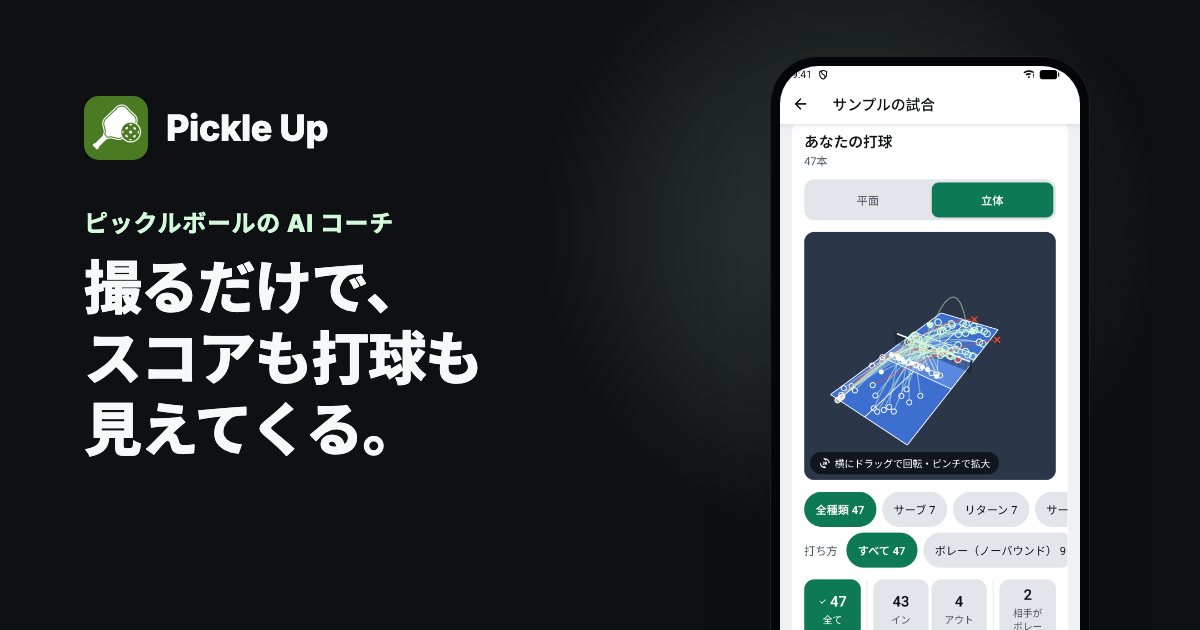
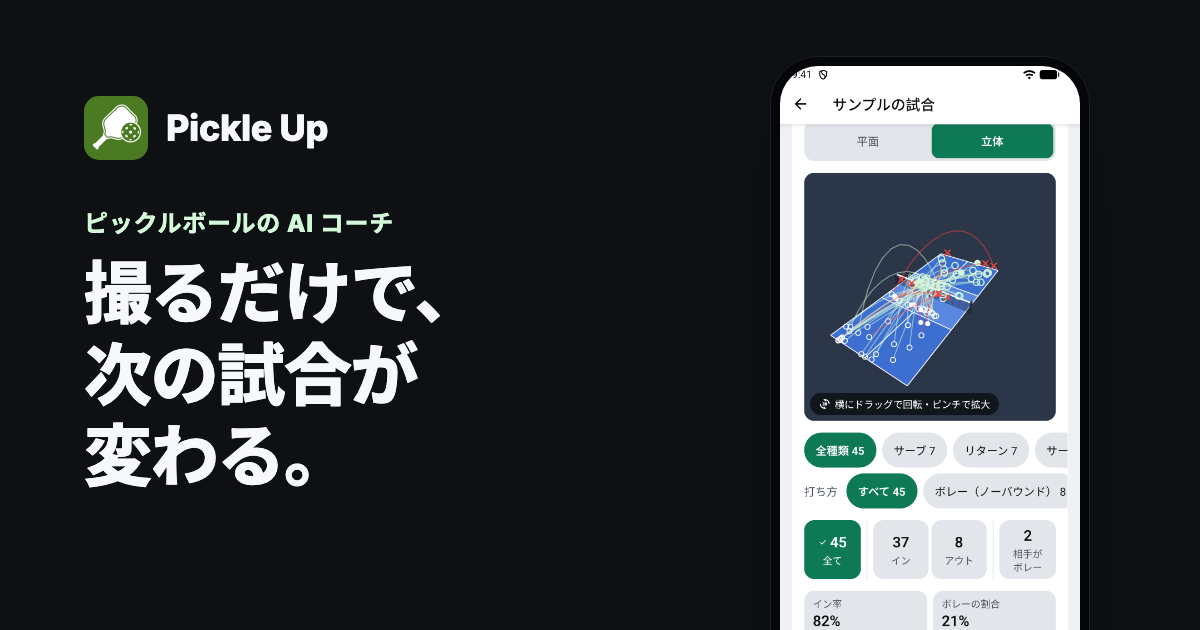
Pickle Up のページの見出しを「撮るだけで、次の試合が変わる。」（英語は "Just film it. Play better next game."）にする。ページのタイトルと共有用の画像も同じ言葉にし、画像の画面を今のサンプル（45本・+19cm）にする
Claude-Session: https://claude.ai/code/session_01RcorTwHLSLi3TqpLhpw8hm

Changed region(s): [[0.5858, 0.181, 0.8942, 1.0], [0.0617, 0.3921, 0.4008, 0.7841]]

diff --git a/ja/apps/pickle-up/index.html b/ja/apps/pickle-up/index.html
@@ -4,7 +4,7 @@
 <meta charset="UTF-8">
 <meta name="viewport" content="width=device-width, initial-scale=1.0">
 <script>try { localStorage.setItem('preferredLang', 'ja'); } catch (_) {}</script>
-<title>Pickle Up | 試合を撮って、打った球を全部振り返るピックルボールのアプリ</title>
+<title>Pickle Up | 撮るだけで、次の試合が変わるピックルボールのアプリ</title>
 <meta name="description" content="コートの後ろにスマホを置いて試合をすると、スコアを数えて読み上げ、あなたが打った球を1本ずつコートに描きます。ドロップは入っているのにボレーはネット、といった傾向が数字で分かり、AI コーチが次に練習することを教えます。">
 <meta name="theme-color" content="#0E1014">
 <link rel="icon" href="/images/apps/pickle-up/icon-64.png" sizes="64x64" type="image/png">
@@ -15,7 +15,7 @@
 <link rel="alternate" hreflang="x-default" href="/en/apps/pickle-up/">
 <meta property="og:type" content="website">
 <meta property="og:site_name" content="Pickle Up">
-<meta property="og:title" content="Pickle Up | 試合を撮って、打った球を全部振り返るピックルボールのアプリ">
+<meta property="og:title" content="Pickle Up | 撮るだけで、次の試合が変わるピックルボールのアプリ">
 <meta property="og:description" content="コートの後ろにスマホを置いて試合をすると、スコアを数えて読み上げ、あなたが打った球を1本ずつコートに描きます。ドロップは入っているのにボレーはネット、といった傾向が数字で分かり、AI コーチが次に練習することを教えます。">
 <meta property="og:url" content="https://quests.it.com/ja/apps/pickle-up/">
 <meta property="og:locale" content="ja_JP">
@@ -62,7 +62,7 @@
 <svg class="court-lines" viewBox="0 0 1200 700" preserveAspectRatio="xMidYMid slice" aria-hidden="true" focusable="false"><path d="M354 565 L682 783 M827 217 L1070 288 M354 565 L827 217 M682 783 L1070 288 M573 403 L871 541 M715 299 L985 397 M500 662 L709 466 M840 344 L941 250" fill="none" stroke="currentColor" stroke-width="2"/><path d="M633 303 L957 426" fill="none" stroke="currentColor" stroke-width="4" stroke-linecap="round"/></svg>
 <div class="wrap hero-grid">
 <div class="hero-copy">
-<h1><span class="phrase">試合を撮ると、</span><span class="phrase">打った球が</span><span class="phrase">全部見える。</span></h1>
+<h1><span class="phrase">撮るだけで、</span><span class="phrase">次の試合が</span><span class="phrase">変わる。</span></h1>
 <p class="lead">スマホをコートの後ろに置いて、いつもどおり試合をしてください。Pickle Up がスコアを数えて読み上げ、あなたが打った球を1本ずつコートに描きます。試合のあとは AI コーチが、次に何を練習すればいいかを教えます。</p>
 <div class="stores stores-hero"><span class="store"><img src="/images/apps/badges/app-store-ja.svg" alt="App Store からダウンロード" width="131" height="48"></span><span class="store"><img src="/images/apps/badges/google-play-ja.png" alt="Google Play で手に入れよう" width="161" height="48"></span></div><p class="stores-note">近日公開</p>
 </div>

diff --git a/en/apps/pickle-up/index.html b/en/apps/pickle-up/index.html
@@ -4,7 +4,7 @@
 <meta charset="UTF-8">
 <meta name="viewport" content="width=device-width, initial-scale=1.0">
 <script>try { localStorage.setItem('preferredLang', 'en'); } catch (_) {}</script>
-<title>Pickle Up | Film your pickleball games and see every shot you hit</title>
+<title>Pickle Up | Just film your pickleball games, and play better the next one</title>
 <meta name="description" content="Prop your phone behind the court and play. Pickle Up keeps and calls the score, draws each of your shots on the court, shows where they go wrong (your drops land, your volleys find the net), and its AI coach tells you what to practise.">
 <meta name="theme-color" content="#0E1014">
 <link rel="icon" href="/images/apps/pickle-up/icon-64.png" sizes="64x64" type="image/png">
@@ -15,7 +15,7 @@
 <link rel="alternate" hreflang="x-default" href="/en/apps/pickle-up/">
 <meta property="og:type" content="website">
 <meta property="og:site_name" content="Pickle Up">
-<meta property="og:title" content="Pickle Up | Film your pickleball games and see every shot you hit">
+<meta property="og:title" content="Pickle Up | Just film your pickleball games, and play better the next one">
 <meta property="og:description" content="Prop your phone behind the court and play. Pickle Up keeps and calls the score, draws each of your shots on the court, shows where they go wrong (your drops land, your volleys find the net), and its AI coach tells you what to practise.">
 <meta property="og:url" content="https://quests.it.com/en/apps/pickle-up/">
 <meta property="og:locale" content="en_US">
@@ -62,7 +62,7 @@
 <svg class="court-lines" viewBox="0 0 1200 700" preserveAspectRatio="xMidYMid slice" aria-hidden="true" focusable="false"><path d="M354 565 L682 783 M827 217 L1070 288 M354 565 L827 217 M682 783 L1070 288 M573 403 L871 541 M715 299 L985 397 M500 662 L709 466 M840 344 L941 250" fill="none" stroke="currentColor" stroke-width="2"/><path d="M633 303 L957 426" fill="none" stroke="currentColor" stroke-width="4" stroke-linecap="round"/></svg>
 <div class="wrap hero-grid">
 <div class="hero-copy">
-<h1><span class="phrase">Film your game.</span><span class="phrase">See every shot</span><span class="phrase">you hit.</span></h1>
+<h1><span class="phrase">Just film it.</span><span class="phrase">Play better</span><span class="phrase">next game.</span></h1>
 <p class="lead">Prop your phone behind the court and play as you always do. Pickle Up keeps score and calls it out, then draws each of your shots on the court. After the match, its AI coach tells you what to practise next.</p>
 <div class="stores stores-hero"><span class="store"><img src="/images/apps/badges/app-store-en.svg" alt="Download on the App Store" width="144" height="48"></span><span class="store"><img src="/images/apps/badges/google-play-en.png" alt="Get it on Google Play" width="161" height="48"></span></div><p class="stores-note">Coming soon</p>
 </div>

diff --git a/scripts/app_pages/pickle_up.py b/scripts/app_pages/pickle_up.py
@@ -22,7 +22,7 @@ CONTACT_TOPICS = ('bug', 'howto', 'plan', 'account', 'idea', 'other')
 
 JA = {
     'lang': 'ja',
-    'title': 'Pickle Up | 試合を撮って、打った球を全部振り返るピックルボールのアプリ',
+    'title': 'Pickle Up | 撮るだけで、次の試合が変わるピックルボールのアプリ',
     'description': 'コートの後ろにスマホを置いて試合をすると、スコアを数えて読み上げ、あなたが打った球を1本ずつコートに描きます。ドロップは入っているのにボレーはネット、といった傾向が数字で分かり、AI コーチが次に練習することを教えます。',
     'nav': {'features': '機能', 'how': '使い方', 'privacy': 'プライバシー', 'faq': 'よくある質問', 'support': 'サポート', 'download': 'ダウンロード', 'menu': 'メニュー', 'menuOpen': 'メニューを開く', 'menuClose': 'メニューを閉じる'},
     'langSwitch': '言語を切り替える',
@@ -30,7 +30,7 @@ JA = {
     'storeAlt': {'appStore': 'App Store からダウンロード', 'googlePlay': 'Google Play で手に入れよう'},
     'carousel': {'prev': '前の画面', 'next': '次の画面', 'slide': '{n}枚目'},
     'hero': {
-        'title': ['試合を撮ると、', '打った球が', '全部見える。'],
+        'title': ['撮るだけで、', '次の試合が', '変わる。'],
         'lead': 'スマホをコートの後ろに置いて、いつもどおり試合をしてください。Pickle Up がスコアを数えて読み上げ、あなたが打った球を1本ずつコートに描きます。試合のあとは AI コーチが、次に何を練習すればいいかを教えます。',
         'screen': '3d-all',
         'screenAlt': 'サンプルの試合の画面。45本の打球を立体のコートに描き、イン率82%、ネットからの高さの中央値 +19cm を表示している',
@@ -154,7 +154,7 @@ JA = {
 
 EN = {
     'lang': 'en',
-    'title': 'Pickle Up | Film your pickleball games and see every shot you hit',
+    'title': 'Pickle Up | Just film your pickleball games, and play better the next one',
     'description': 'Prop your phone behind the court and play. Pickle Up keeps and calls the score, draws each of your shots on the court, shows where they go wrong (your drops land, your volleys find the net), and its AI coach tells you what to practise.',
     'nav': {'features': 'Features', 'how': 'How it works', 'privacy': 'Privacy', 'faq': 'FAQ', 'support': 'Support', 'download': 'Download', 'menu': 'Menu', 'menuOpen': 'Open menu', 'menuClose': 'Close menu'},
     'langSwitch': 'Change language',
@@ -162,7 +162,7 @@ EN = {
     'storeAlt': {'appStore': 'Download on the App Store', 'googlePlay': 'Get it on Google Play'},
     'carousel': {'prev': 'Previous screen', 'next': 'Next screen', 'slide': 'Screen {n}'},
     'hero': {
-        'title': ['Film your game.', 'See every shot', 'you hit.'],
+        'title': ['Just film it.', 'Play better', 'next game.'],
         'lead': 'Prop your phone behind the court and play as you always do. Pickle Up keeps score and calls it out, then draws each of your shots on the court. After the match, its AI coach tells you what to practise next.',
         'screen': '3d-all',
         'screenAlt': 'The sample match: 45 shots drawn on a 3D court, with an 82% in rate and a median height over the net of +19 cm',
